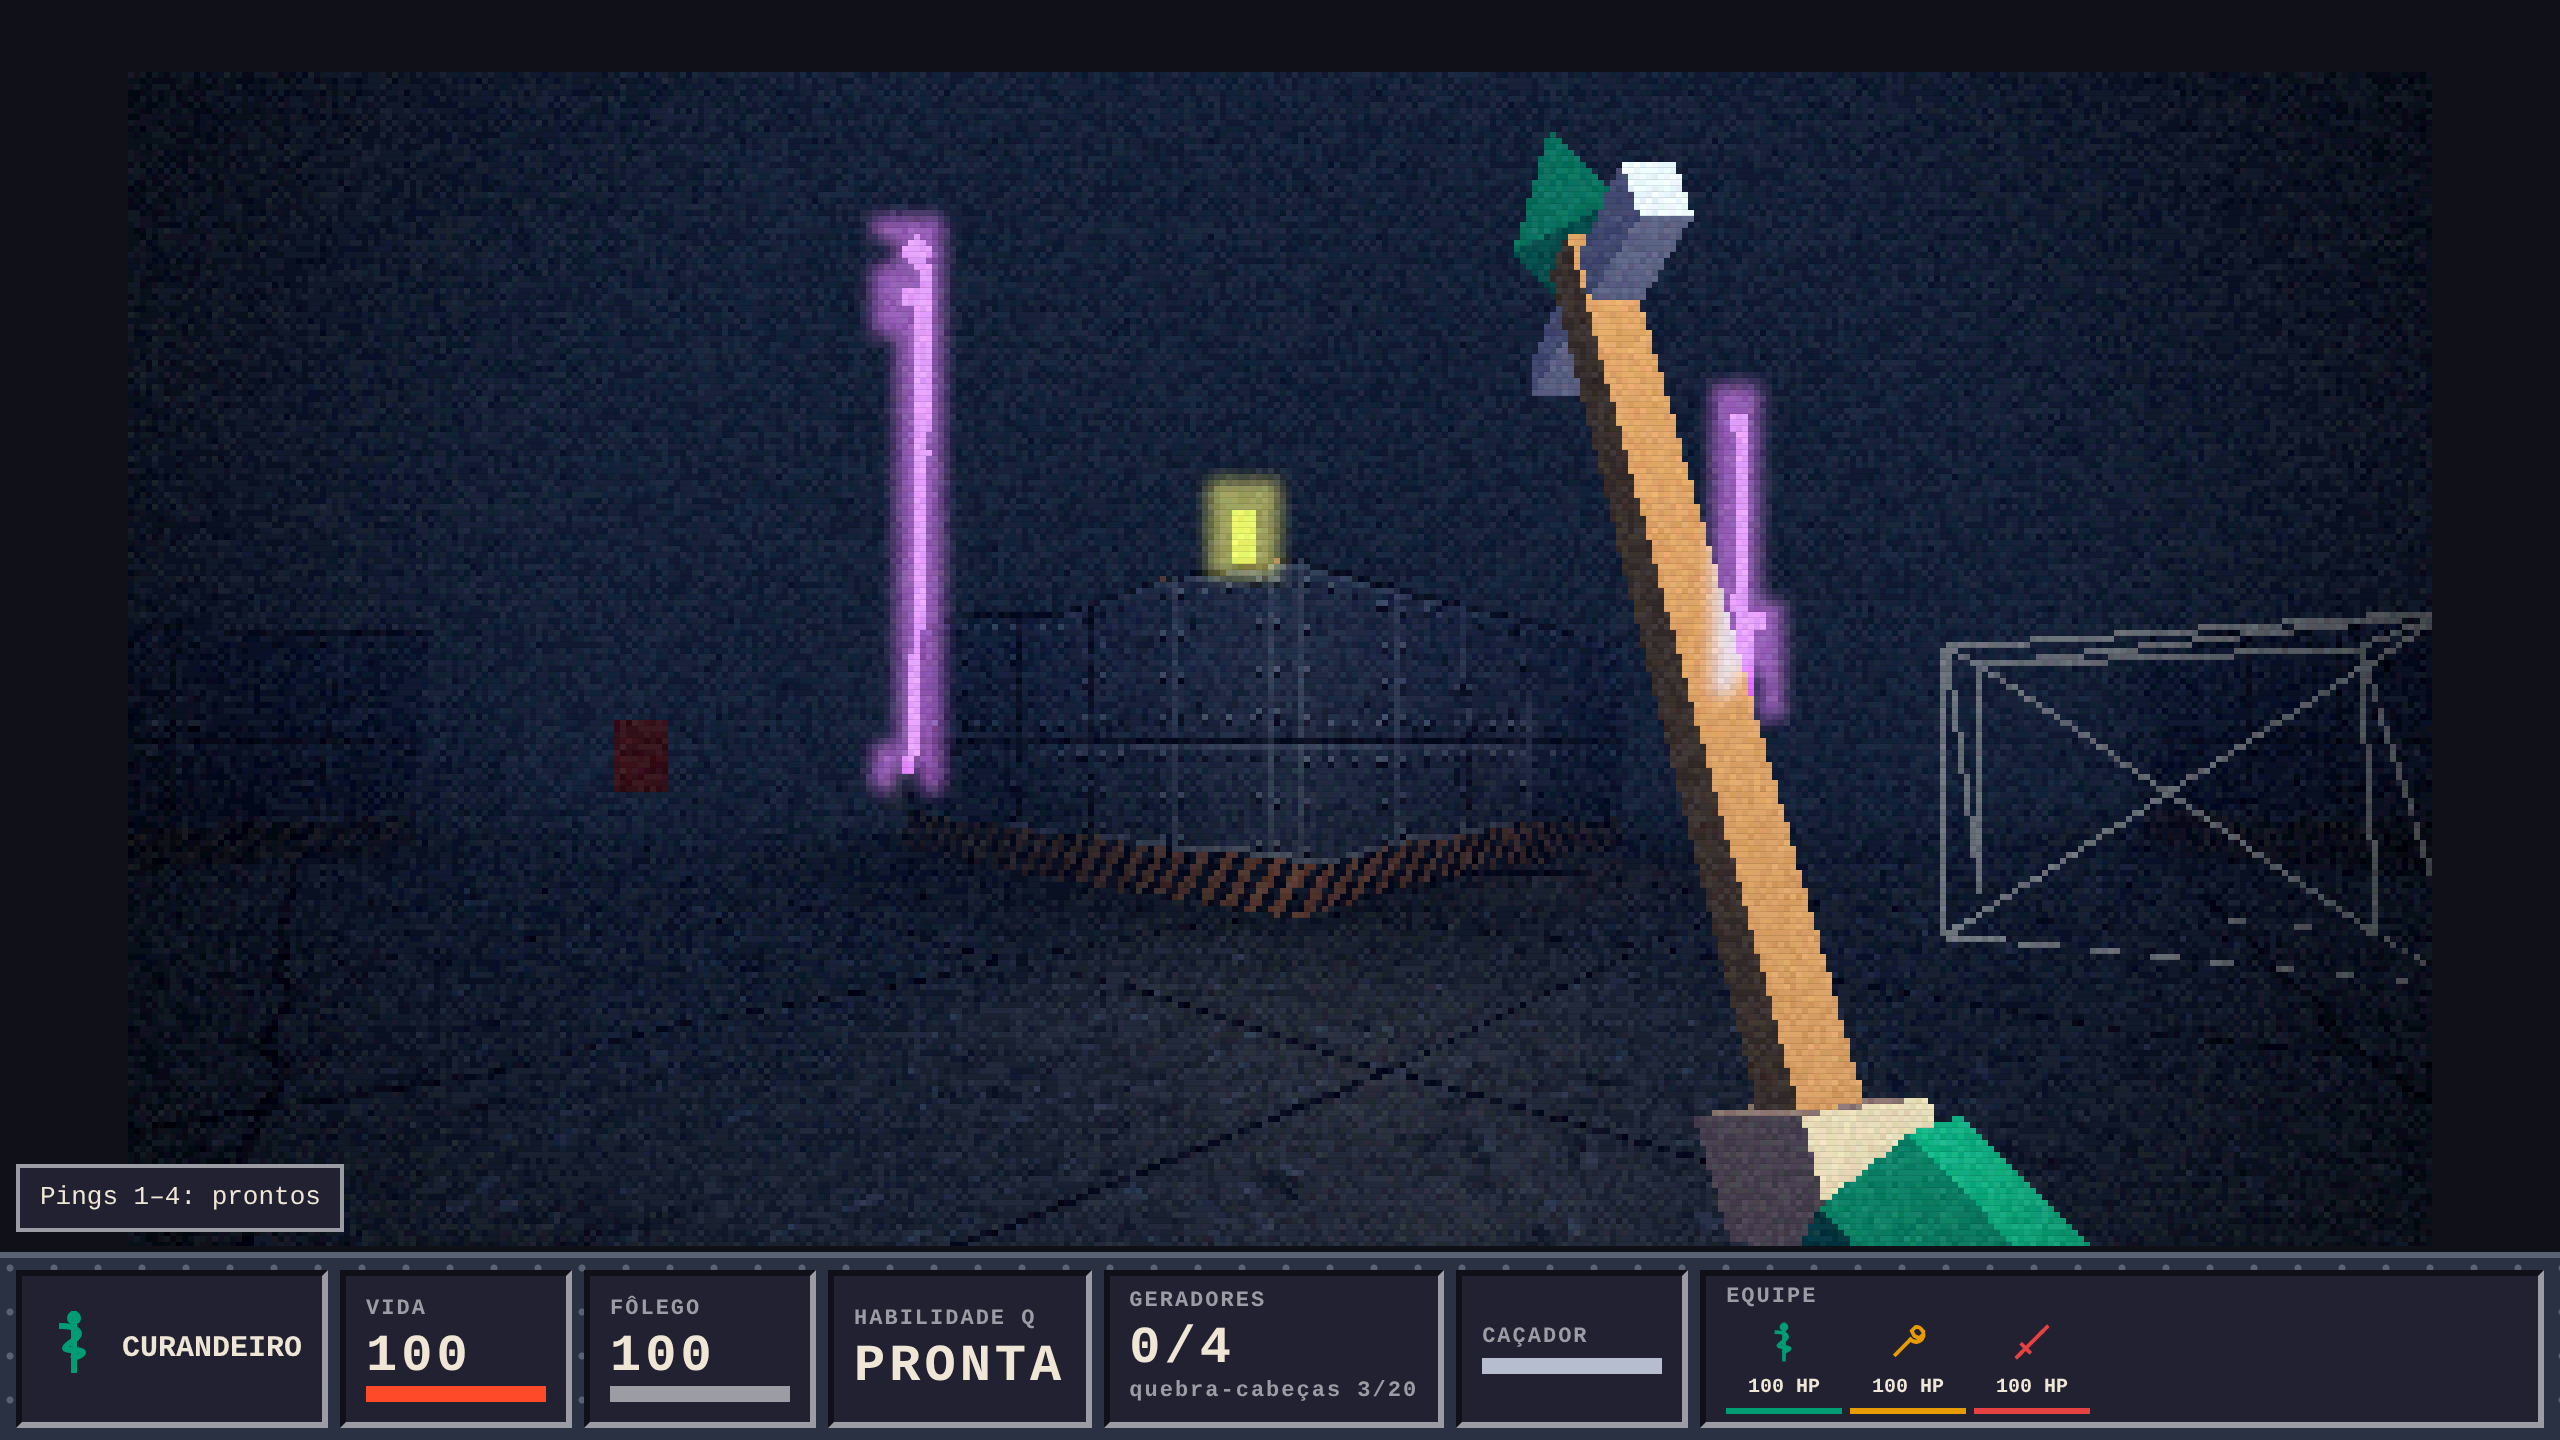
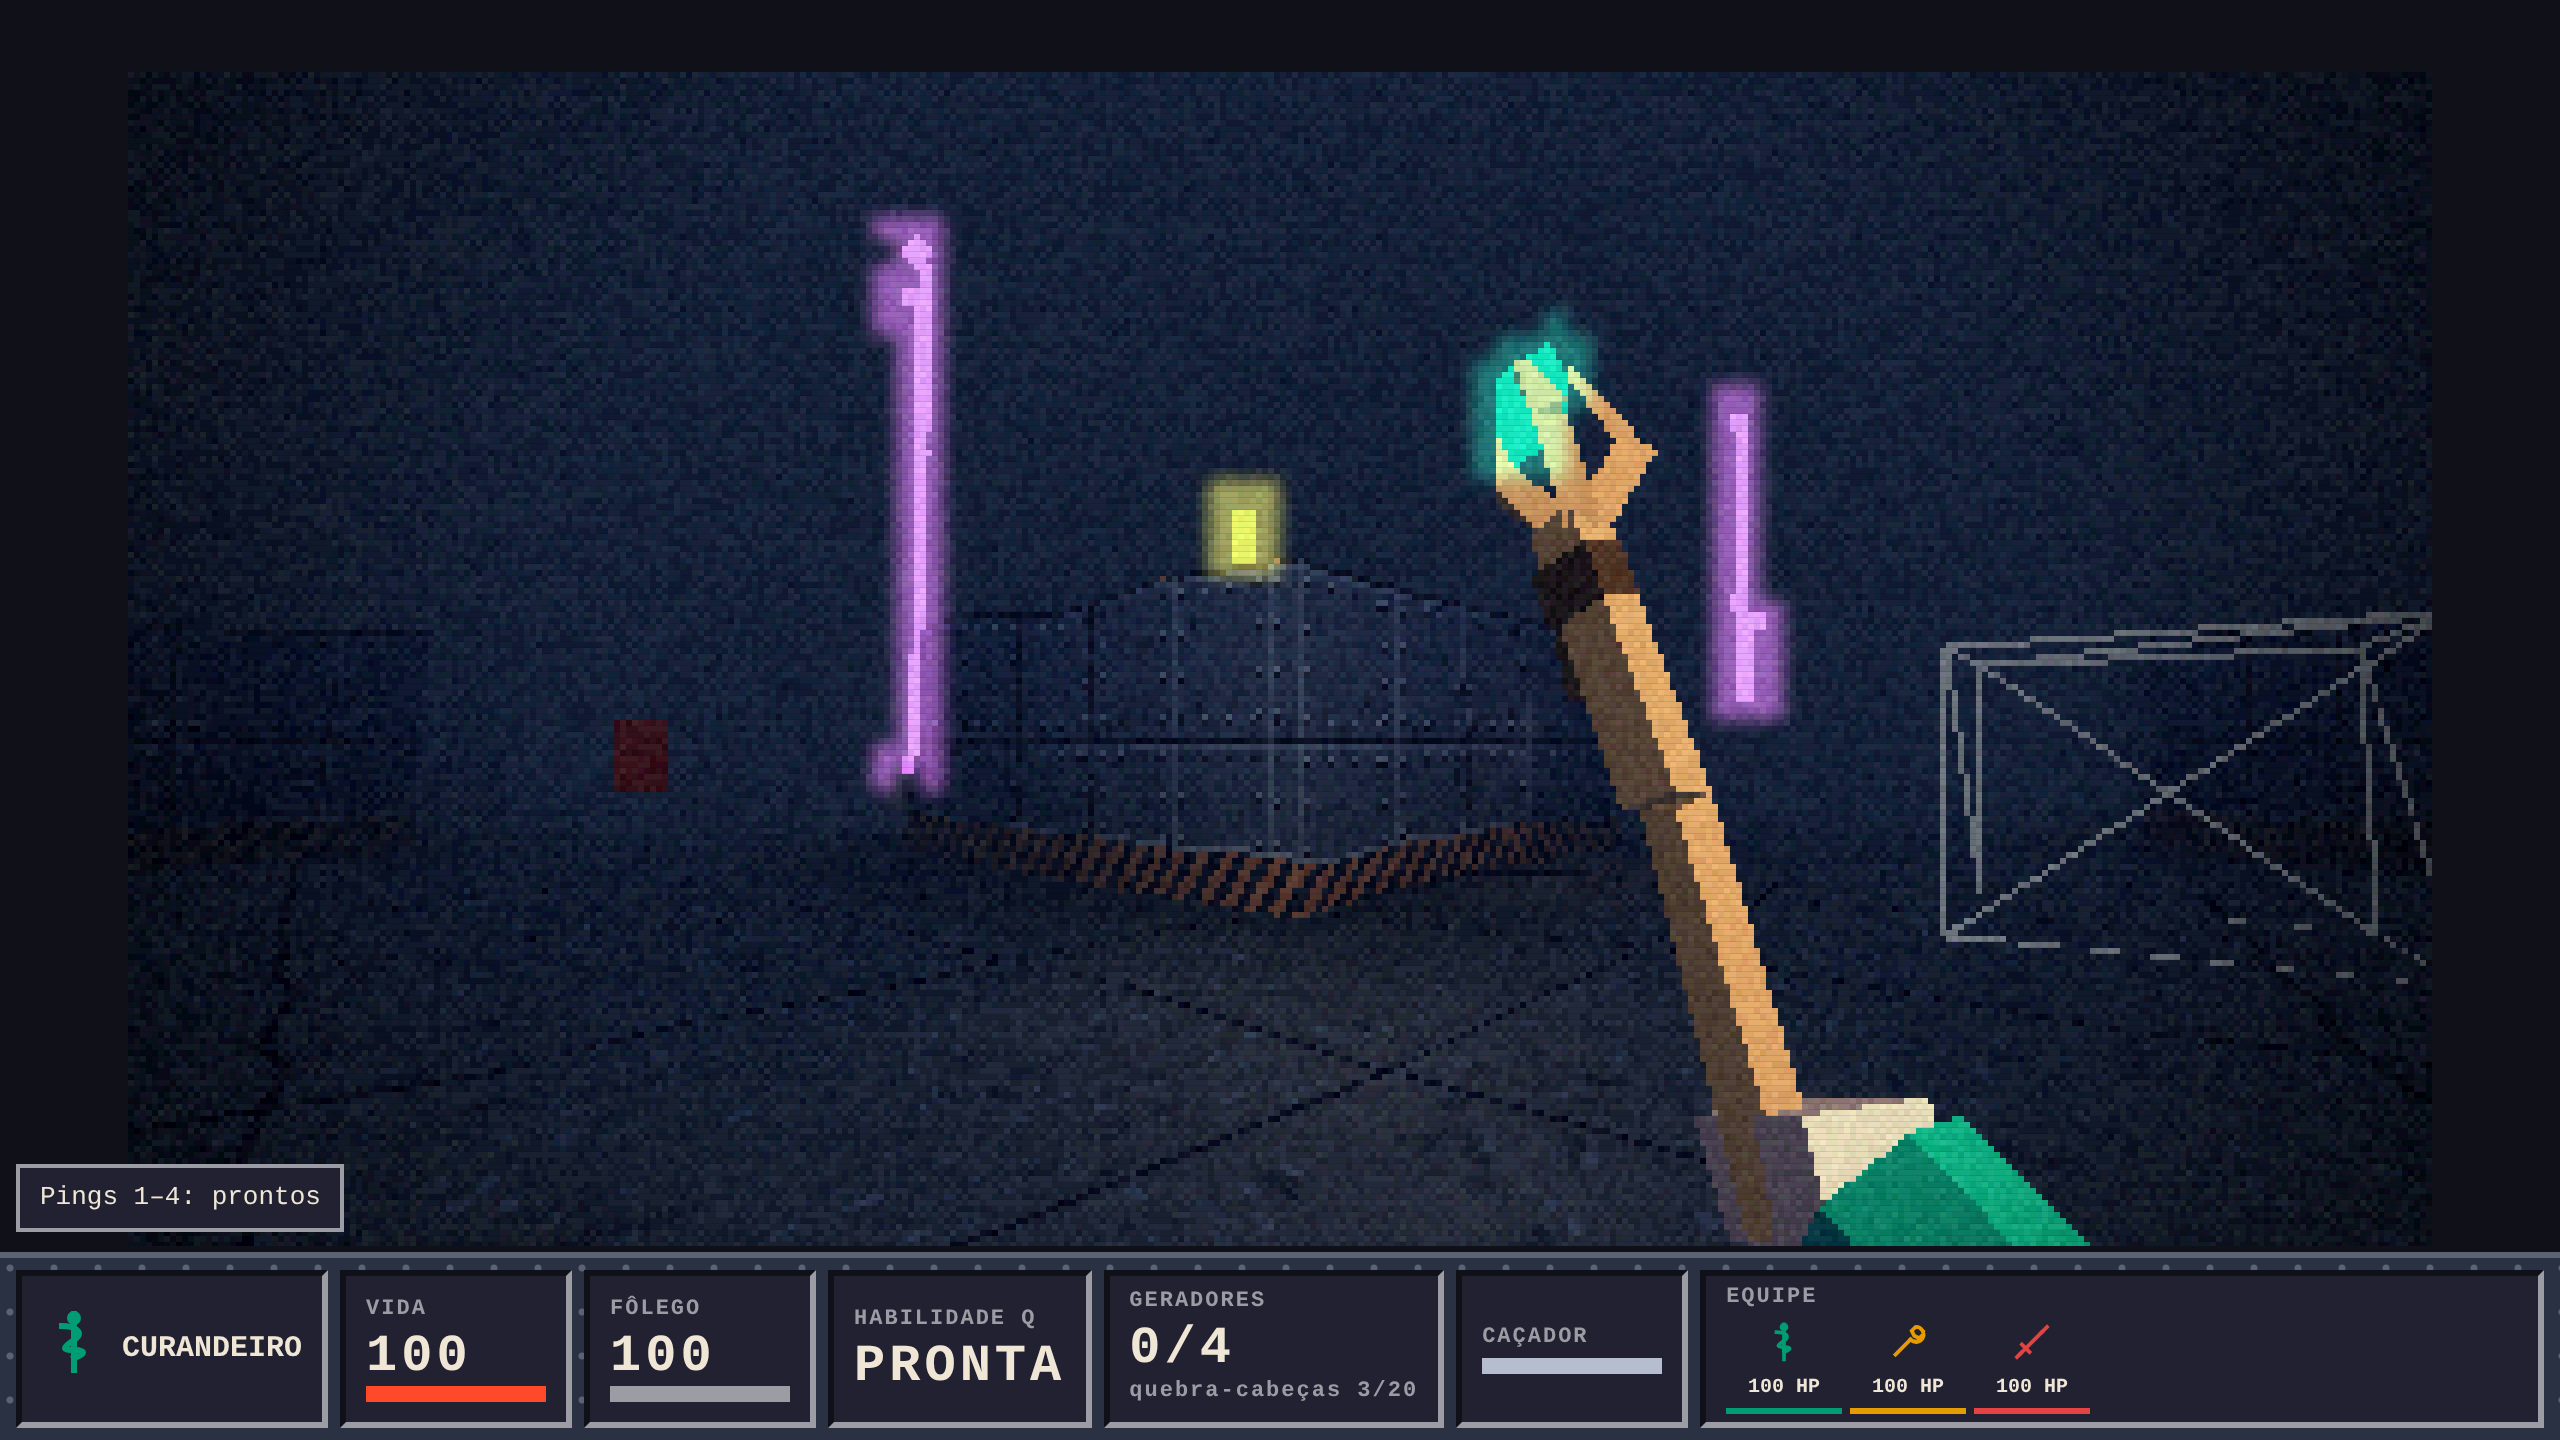
feat(render): ferramenta do Curandeiro com o cajado de mago no mockup Retro FPS
Depois do merge do PR #25: o viewmodel soma as peças da variante padrão da
ficha (variantes.padrao), como o bake, e o giro e a escala do cajado em
render.retro.viewmodel foram ajustados ao cajado novo (haste diagonal, cristal
à vista). Captura docs/art/marcos/a2b/1p-curandeiro.png regenerada.

Claude-Session: https://claude.ai/code/session_01RHvzBkpAz1qJUMgUKvPxkx

Changed region(s): [[0.5625, 0.0938, 0.75, 0.8438]]

diff --git a/packages/client/src/render/retro/viewmodel.ts b/packages/client/src/render/retro/viewmodel.ts
@@ -18,11 +18,15 @@ const vm = rt.viewmodel;
 const SHEET = sheetJson as unknown as Sheet;
 type V3 = [number, number, number];
 
-/** triângulos das peças da ficha presas a `osso` (e com as `cores`, se dadas), em coordenadas da ficha */
+/**
+ * triângulos das peças da ficha presas a `osso` (e com as `cores`, se dadas), em coordenadas da ficha. Como no bake,
+ * entram as peças da variante padrão (`variantes.padrao`, ex.: cajado de mago do Curandeiro)
+ */
 export function pieceTris(ch: SheetCharacter, osso: string, cores?: readonly string[]): Tri[] {
   const out: Tri[] = [];
   const v = (a: readonly number[]) => new THREE.Vector3(a[0], a[1], a[2]);
-  for (const pc of ch.pecas as SheetPiece[]) {
+  const variant = ch.variantes ? ch.variantes.lista[ch.variantes.padrao]?.pecas ?? [] : [];
+  for (const pc of [...ch.pecas, ...variant] as SheetPiece[]) {
     if (pc.forma === "seg" || pc.osso !== osso || (cores && !cores.includes(pc.cor))) continue;
     const paint = { token: pc.cor, joint: osso, glow: "brilho" in pc && !!pc.brilho };
     switch (pc.forma) {
